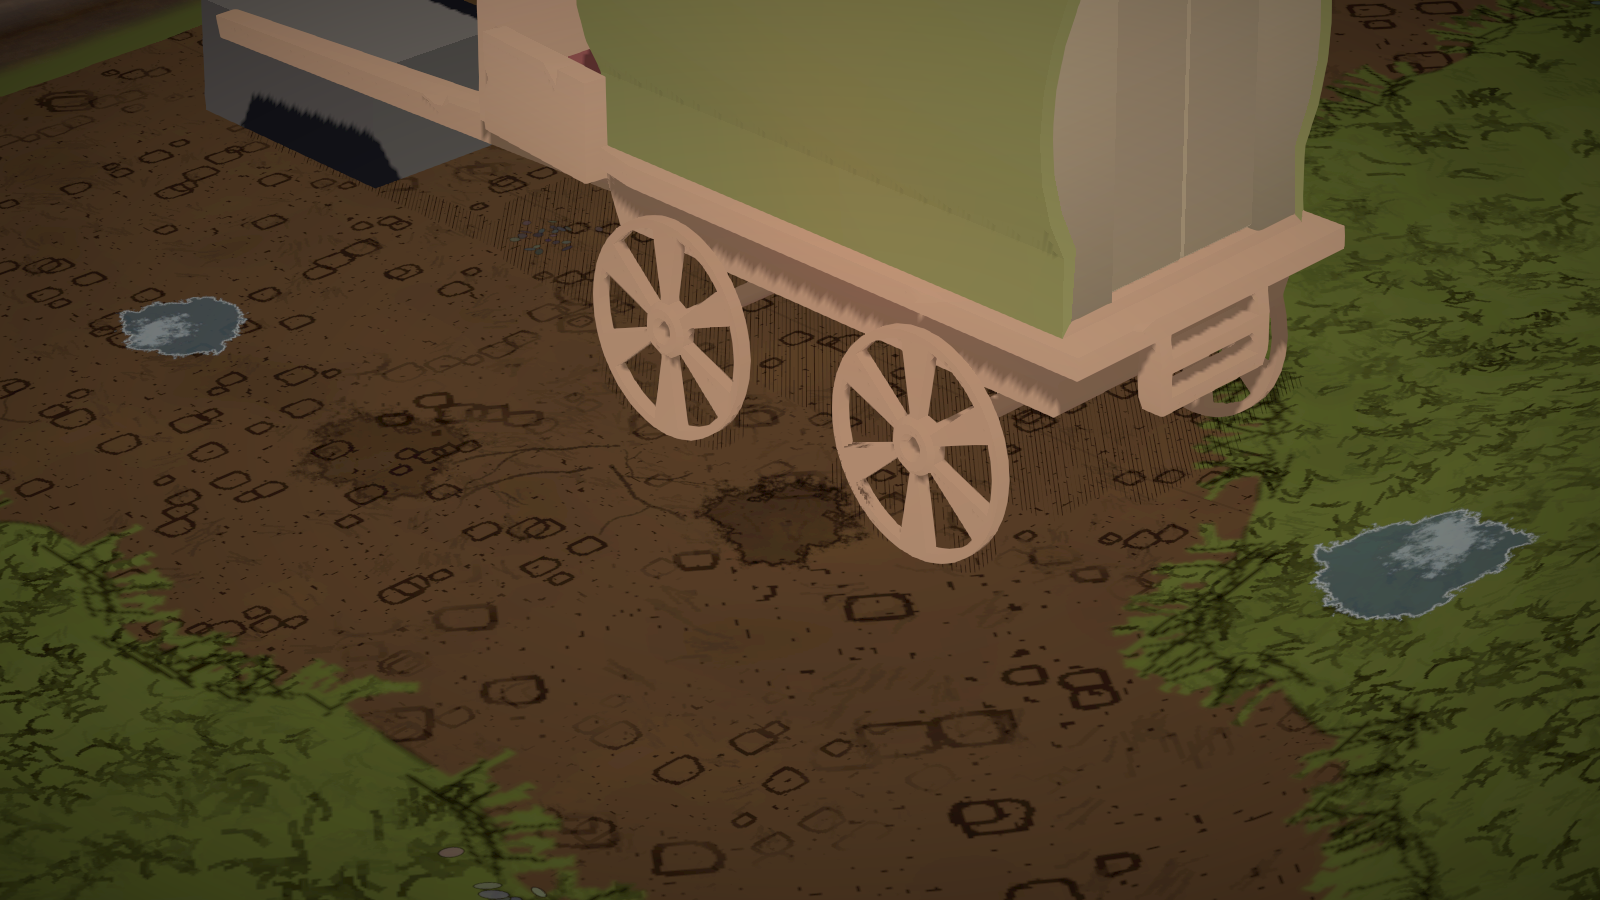
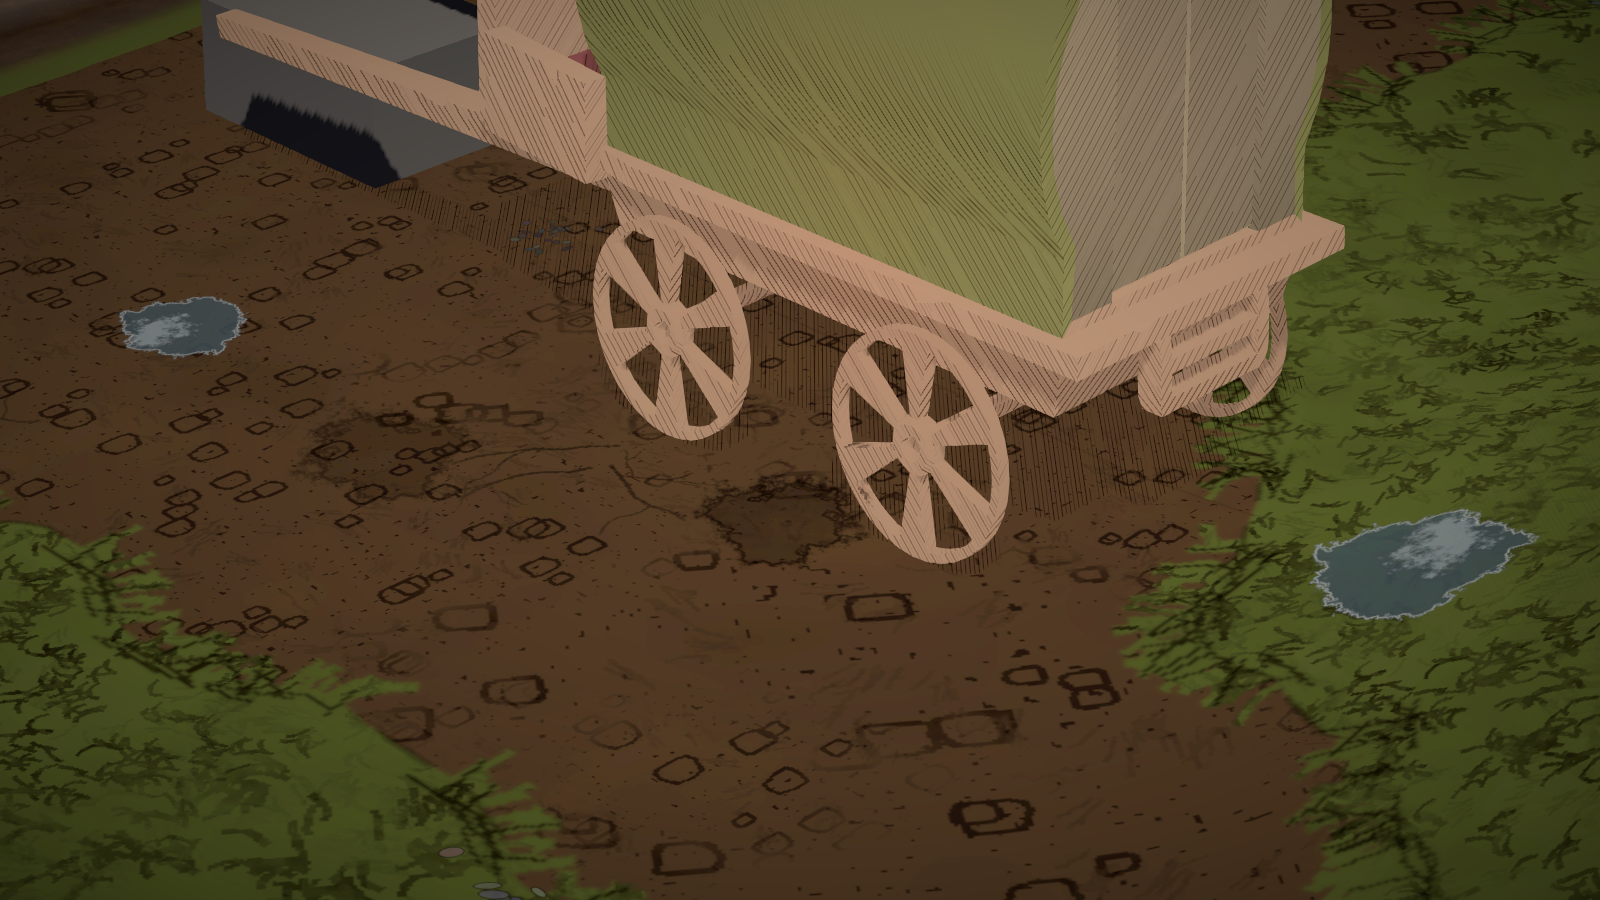
Ink Look: objects visibly hatched, Object anchor default, captures 08-11
- Hatch mask ignores material shade strength: objects run N.L influence 0.15, so their shaded sides
  never crossed the threshold and showed no lines. Eyes (both shade dials 0) still never hatch.
- Object hatch anchor defaults to Object: World on camera-facing cards moved the lines only for X motion.
- Captures refreshed and extended (caravan, building, character with each anchor).

Claude-Session: https://claude.ai/code/session_013ze2L1zKYgWCpD1v92eQ3T

diff --git a/Assets/_Scripts/MonoBehaviours/Terrain/TerrainLightingBridge.cs b/Assets/_Scripts/MonoBehaviours/Terrain/TerrainLightingBridge.cs
@@ -23,7 +23,8 @@ public class TerrainLightingBridge : MonoBehaviour
 
     public enum ObjectHatchAnchor
     {
-        // Lines fixed in the world: static things never change, a walking unit moves through them.
+        // Lines fixed in the world. On camera-facing cards (units) this is inconsistent: the card's plane holds only X and Y,
+        // so walking along X slides the lines but walking along Z does not.
         World = 0,
         // Lines measured from each object's origin: they ride with a moving unit, but can jump where its body parts meet.
         Object = 1,
@@ -89,7 +90,7 @@ public class TerrainLightingBridge : MonoBehaviour
     [Tooltip("Hatch lines in the shade on characters, props and buildings (every painted-lighting graph). 0 = ground only.")]
     public float objectHatchStrength = 1f;
 
-    public ObjectHatchAnchor objectHatchAnchor = ObjectHatchAnchor.World;
+    public ObjectHatchAnchor objectHatchAnchor = ObjectHatchAnchor.Object;
 
     [Range(0f, 1f)]
     [Tooltip("1 = shade on objects stops darkening and only the hatch draws it; 0 = normal shade tone with hatch on top.")]

diff --git a/Assets/_Vault/Tasks/Captures/InkLook_2026-11-19/InkLook_Captures.md b/Assets/_Vault/Tasks/Captures/InkLook_2026-11-19/InkLook_Captures.md
@@ -1,38 +1,50 @@
 ---
-title: Ink Look captures (round 3, procedural ground hatch)
+title: Ink Look captures (procedural hatch on ground and objects)
 created: 2026-11-19
+updated: 2026-11-20
 area: Shaders / PaintedGround
 ---
 
 Spec: [[InkLook_System]] · checklist: [[verify-ink-look]] · reference: `Tasks/Claude/TextureInspo.png`
 
-Captured in the Editor from the CampLoop Main Camera (1600×900), Ink Look Bridge on unless noted.
-The magenta squares are two `Quad` objects in CampLoop with no material; they are not part of this work.
+Captured in the Editor from the CampLoop Main Camera (1600×900), Ink Look Bridge on, Object Hatch Anchor = Object
+unless noted. The magenta squares are two `Quad` objects in CampLoop with no material; they are not part of this work.
 The zoomed-out stand-in ground only exists in Play mode, so it is not in these shots.
 
 ## 1. Game camera, ink look on
-Hatch only inside shadows on the ground (cart, trees), no darkening under it; units and props unhatched.
+Ground shadows hatched; objects now hatched on the side away from the sun (caravan canvas, trees, crates, characters).
 ![[01_game_view_ink_on.png]]
 
 ## 2. Same view, ink look off (before)
 ![[02_game_view_ink_off.png]]
 
 ## 3. Ground close-up
-Flat local colour with ink detail; Don't Starve style turf edges on a 4 m grid.
 ![[03_ground_closeup.png]]
 
 ## 4. Cart shadow close-up
-Lines stay about 1 px wide and about 5 px apart this close: crisp, not pixelated.
 ![[04_cart_shadow_closeup.png]]
 
 ## 5. Camera turned 45°
-The lines are fixed to the ground: they turn with the world instead of sliding with the camera.
 ![[05_camera_turned_45.png]]
 
 ## 6. Zoomed out to 150 m
-Hatch still visible under the cart at the same on-screen spacing.
 ![[06_zoomed_out_150m.png]]
 
 ## 7. Zoomed out to 400 m
-Ink look on every tile; the faint square grid seen in the first pass (atlas bleed) is fixed.
 ![[07_zoomed_out_400m.png]]
+
+## 8. Caravan close-up
+The canvas side facing away from the sun is hatched; half the normal shade darkening is kept underneath (bridge dial 0.5).
+![[08_caravan_closeup.png]]
+
+## 9. Building close-up
+The front faces away from the sun, so the whole face is hatched, like the shaded building fronts in the reference.
+![[09_building_closeup.png]]
+
+## 10. Character close-up, Object anchor (default)
+Lines ride with the unit in every direction. Faint block seams show where its separate body parts meet.
+![[10_character_closeup_object_anchor.png]]
+
+## 11. Character close-up, World anchor
+Same seams; in motion this one slides when walking along X but not along Z (the owner's report), so Object is the default.
+![[11_character_closeup_world_anchor.png]]

diff --git a/Assets/_Vault/Tasks/Verification/InkLook_System.md b/Assets/_Vault/Tasks/Verification/InkLook_System.md
@@ -277,6 +277,19 @@ characters in shade, too big, pixelated, vanishes zoomed out. Texture hatch drop
 - Ground materials and the Main Camera override in CampLoop restored to their pre-experiment values.
 - Not compiled in the Editor yet (Unity was closed).
 
+## Owner feedback round 3 (2026-11-20) — hatch on objects
+
+Owner: ground shadows better, but caravan, building and characters had no hatch, so the look could not be judged; with
+the World anchor, hatch slid over a unit walking along X but not along Z.
+- `PaintedLighting_float` (every graph) now draws `StitchObjectHatchLines` in shade: the plane the surface mostly faces,
+  same pixel spacing as the ground. Bridge: `objectHatchStrength` 1, `objectHatchAnchor`, `objectShadowDrawnOnlyByHatch` 0.5.
+- **Anchor default = Object.** World on a camera-facing card uses the X/Y plane, so only X motion moves the lines.
+- **Hatch mask ignores the material's darkening strength**: objects keep N.L influence at 0.15, so a wall facing away
+  from the sun never crossed the threshold. A material with both shade dials at 0 (eyes) still never hatches.
+- Open: units are many part entities, each with its own origin, so faint seams show at part borders (captures 10/11).
+  The fix is a per-actor anchor (root position as a per-instance property, the `BodyPartTint` pattern), not built.
+- Open: characters whose card faces away from the sun are hatched all over (capture 10).
+
 ## Open decisions
 
 Recorded defaults (architecture calls, decided here; overturn freely):

diff --git a/Assets/_Vault/Memories/Code/Shaders.md b/Assets/_Vault/Memories/Code/Shaders.md
@@ -54,7 +54,9 @@ Spec + build log: `Tasks/Verification/InkLook_System.md`; look pass `verify-ink-
   zoomed-out stand-ins are baked material copies (`TerrainStrategicBaker`) and never picked them up.
 - **Hatch = `StitchGroundHatchLines` in `PaintedGround.shader`**, analytic and world-locked, constant on-screen spacing
   via octave stepping (a fixed-size texture hatch was rejected: swam with the camera, pixelated close, vanished far).
-  Never hatch units or props (rejected: weird on characters, rides with moving objects).
+  Objects are hatched too (2026-11-20) via `StitchObjectHatchLines` in `PaintedLighting_float`, anchor default Object
+  (World on camera-facing cards only moves with X motion). The hatch mask ignores material shade strength (objects run
+  N.L influence 0.15 and never crossed it). Units are multi-part entities: part-border seams until a per-actor anchor.
 - `StitchPaintedLighting` (core) = the lighting body with hatch + shadow lift inputs; `PaintedLighting_float` passes 0, 0.
 - **Editor captures after a recompile render empty** (only plain GameObjects): the tile subscenes close and the
   Editor World does not tick while Unity is unfocused. `World.DefaultGameObjectInjectionWorld.Update()` ~20 times in
